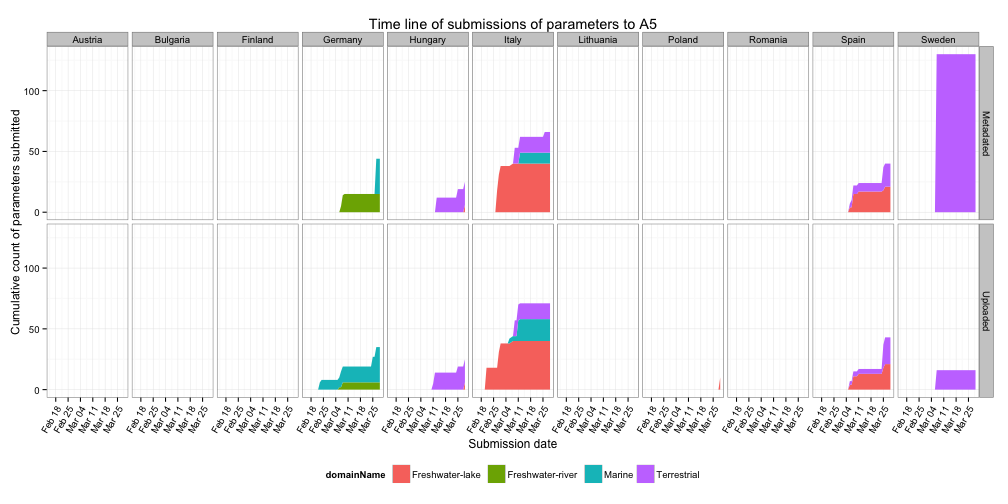
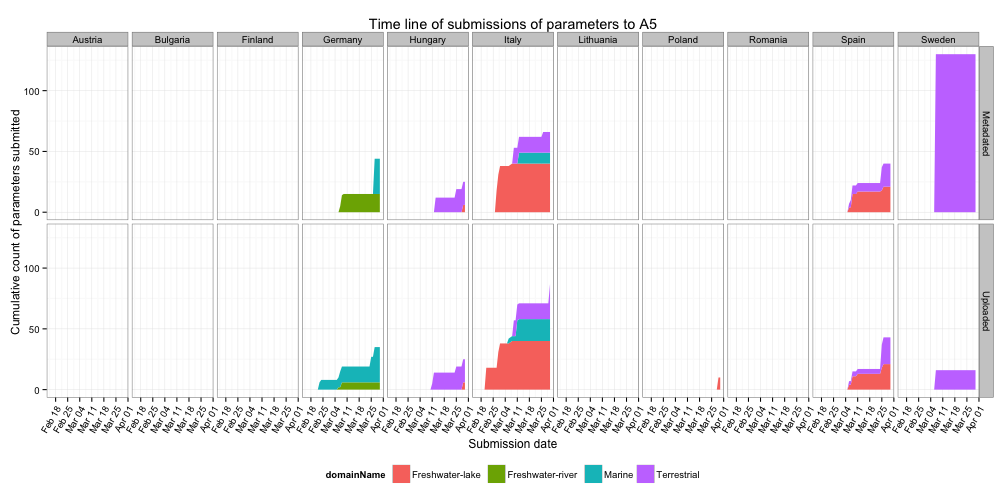
publishing deck

Changed region(s): [[0.0308, 0.8036, 0.9841, 0.8631]]

diff --git a/index.html b/index.html
@@ -48,9 +48,9 @@
   </hgroup>
   <article>
     <ul>
-<li>Last updated <code>2013-03-29</code></li>
+<li>Last updated <code>2013-03-30</code></li>
 <li>Deadline for data submission: <code>2013-03-08</code></li>
-<li>Days to deadline: <code>-21</code></li>
+<li>Days to deadline: <code>-22</code></li>
 <li>Total number of sites sampled in 2012: <code>61</code>; sub-sites: <code>65</code></li>
 </ul>
 
@@ -58,13 +58,13 @@
 
 <!-- html table generated in R 2.15.3 by xtable 1.7-0 package -->
 
-<!-- Fri Mar 29 15:05:01 2013 -->
+<!-- Sat Mar 30 14:31:01 2013 -->
 
 <TABLE border=1>
 <TR> <TH>  </TH> <TH> No. uploaded </TH> <TH> No. metadated </TH> <TH> Total no. </TH> <TH> Upload ratio </TH> <TH> Metadata ratio </TH>  </TR>
-  <TR> <TD align="right"> Year2012 </TD> <TD align="right"> 172 </TD> <TD align="right"> 236 </TD> <TD align="right"> 2026 </TD> <TD align="right"> 0.08 </TD> <TD align="right"> 0.12 </TD> </TR>
-  <TR> <TD align="right"> Year2011 </TD> <TD align="right">  28 </TD> <TD align="right">  69 </TD> <TD align="right"> 265 </TD> <TD align="right"> 0.11 </TD> <TD align="right"> 0.26 </TD> </TR>
-  <TR> <TD align="right"> Sum </TD> <TD align="right"> 200 </TD> <TD align="right"> 305 </TD> <TD align="right"> 2291 </TD> <TD align="right"> 0.09 </TD> <TD align="right"> 0.13 </TD> </TR>
+  <TR> <TD align="right"> Year2012 </TD> <TD align="right"> 175 </TD> <TD align="right"> 236 </TD> <TD align="right"> 2026 </TD> <TD align="right"> 0.09 </TD> <TD align="right"> 0.12 </TD> </TR>
+  <TR> <TD align="right"> Year2011 </TD> <TD align="right">  41 </TD> <TD align="right">  69 </TD> <TD align="right"> 265 </TD> <TD align="right"> 0.15 </TD> <TD align="right"> 0.26 </TD> </TR>
+  <TR> <TD align="right"> Sum </TD> <TD align="right"> 216 </TD> <TD align="right"> 305 </TD> <TD align="right"> 2291 </TD> <TD align="right"> 0.09 </TD> <TD align="right"> 0.13 </TD> </TR>
    </TABLE>
 
   </article>

diff --git a/index.md b/index.md
@@ -26,19 +26,19 @@ github:
 
 ## State of uploading process
 
-* Last updated ``2013-03-29``
+* Last updated ``2013-03-30``
 * Deadline for data submission: `2013-03-08`
-* Days to deadline: ``-21``
+* Days to deadline: ``-22``
 * Total number of sites sampled in 2012: ``61``; sub-sites: ``65``
 
 Parameters uploaded and metadated:
 <!-- html table generated in R 2.15.3 by xtable 1.7-0 package -->
-<!-- Fri Mar 29 15:05:01 2013 -->
+<!-- Sat Mar 30 14:31:01 2013 -->
 <TABLE border=1>
 <TR> <TH>  </TH> <TH> No. uploaded </TH> <TH> No. metadated </TH> <TH> Total no. </TH> <TH> Upload ratio </TH> <TH> Metadata ratio </TH>  </TR>
-  <TR> <TD align="right"> Year2012 </TD> <TD align="right"> 172 </TD> <TD align="right"> 236 </TD> <TD align="right"> 2026 </TD> <TD align="right"> 0.08 </TD> <TD align="right"> 0.12 </TD> </TR>
-  <TR> <TD align="right"> Year2011 </TD> <TD align="right">  28 </TD> <TD align="right">  69 </TD> <TD align="right"> 265 </TD> <TD align="right"> 0.11 </TD> <TD align="right"> 0.26 </TD> </TR>
-  <TR> <TD align="right"> Sum </TD> <TD align="right"> 200 </TD> <TD align="right"> 305 </TD> <TD align="right"> 2291 </TD> <TD align="right"> 0.09 </TD> <TD align="right"> 0.13 </TD> </TR>
+  <TR> <TD align="right"> Year2012 </TD> <TD align="right"> 175 </TD> <TD align="right"> 236 </TD> <TD align="right"> 2026 </TD> <TD align="right"> 0.09 </TD> <TD align="right"> 0.12 </TD> </TR>
+  <TR> <TD align="right"> Year2011 </TD> <TD align="right">  41 </TD> <TD align="right">  69 </TD> <TD align="right"> 265 </TD> <TD align="right"> 0.15 </TD> <TD align="right"> 0.26 </TD> </TR>
+  <TR> <TD align="right"> Sum </TD> <TD align="right"> 216 </TD> <TD align="right"> 305 </TD> <TD align="right"> 2291 </TD> <TD align="right"> 0.09 </TD> <TD align="right"> 0.13 </TD> </TR>
    </TABLE>
 
 
